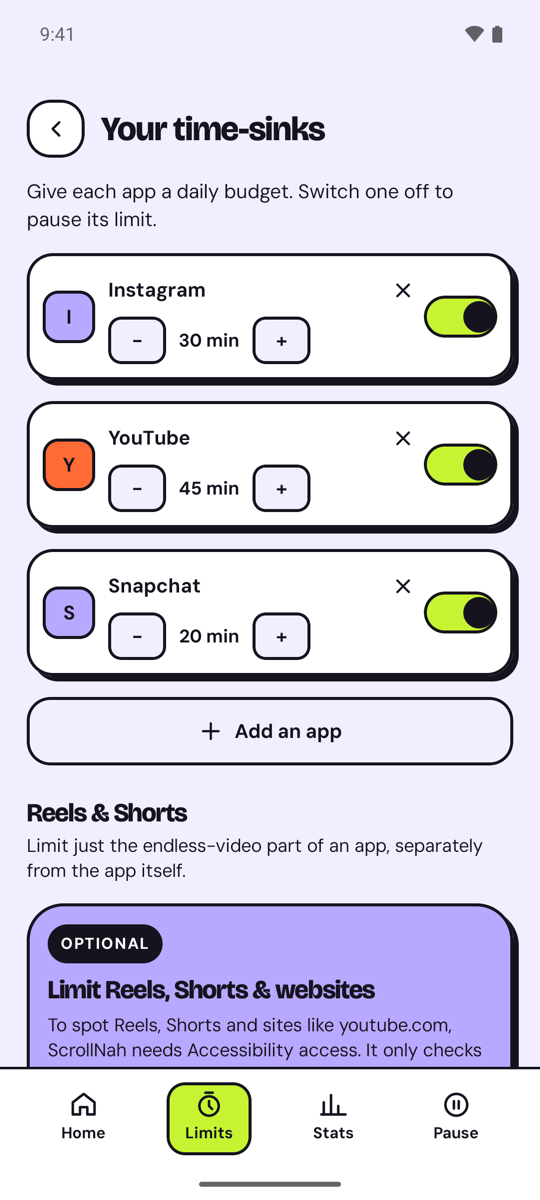
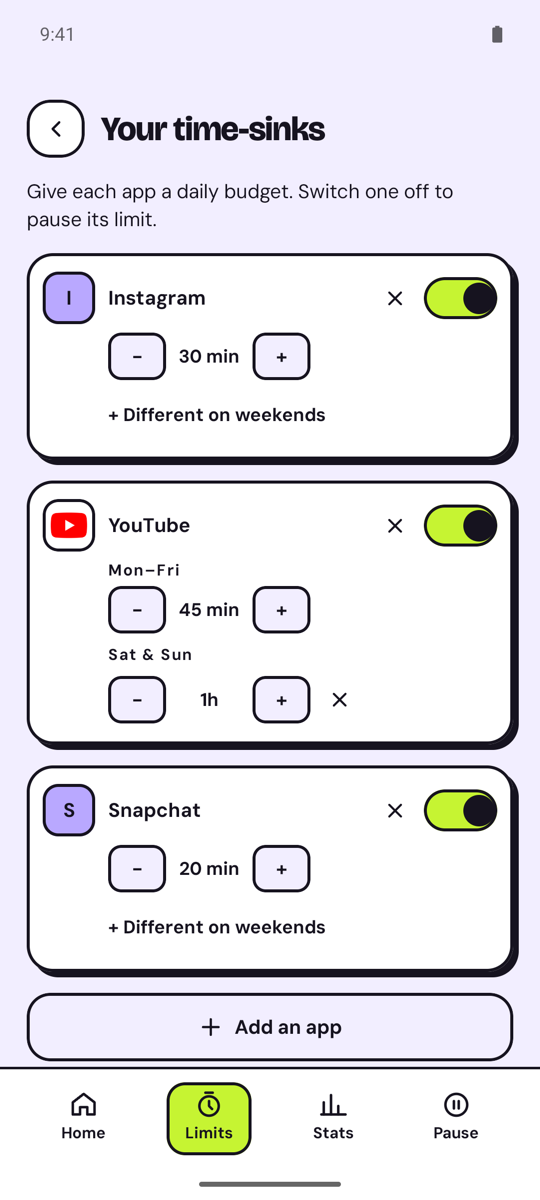
README: screenshots for 2.1.0
New screenshots for the setup mascot pick, Bloomy's new-flower pop-up and the
Quick Settings Focus tile; Limits screenshot retaken with app icons and a
weekend limit. Progress log: release asset naming and screenshot notes.

Changed region(s): [[0.0296, 0.2158, 0.9778, 0.8942], [0.8593, 0.0, 0.8889, 0.0308]]

diff --git a/CLAUDE_UPDATES.md b/CLAUDE_UPDATES.md
@@ -384,6 +384,10 @@ debug gallery (below).
 ## Version 2.1.0 (2026-10-27)
 - `versionCode` 6, `versionName` "2.1.0": everything in "Enhancements + compact app" below. GitHub release v2.1.0 (Latest).
 - Not yet tested on a real phone (emulator only). Play listing text (`store/listing.md`) not updated for the new features.
+- README: new screenshots `setup.png` (Pick your buddy), `bloom.png` (New flower!), `focus-tile.png` (Quick Settings,
+  focus on), and a new `limits.png` (app icons + YouTube weekend limit). Same method as "README screenshots" below;
+  the emulator's demo status bar wouldn't show the Wi-Fi icon this time (clock + battery only). The Focus tile showed
+  no ">" arrow once it was removed and added again (System UI caches the toggle flag).
 
 ## Enhancements + compact app (2026-10-27, developer's list + "make it compact")
 Committed as d5bf426 and released in 2.1.0. Built both flavors, 21 unit tests pass, tested on the emulator (`Unscroll_Pixel`).
@@ -442,9 +446,9 @@ Committed as d5bf426 and released in 2.1.0. Built both flavors, 21 unit tests pa
 ## Version 2.0.2 (2026-10-27)
 - `versionCode` 5, `versionName` "2.0.2": the landscape layouts below. GitHub release v2.0.2 (Latest), built
   with `./gradlew assembleGithubRelease` (the github flavor = what GitHub releases ship, tracker included).
-- Release steps now: bump version -> commit -> `./gradlew clean assembleGithubRelease` ->
-  `gh release create vX.Y.Z app/build/outputs/apk/github/release/app-github-release.apk#ScrollNah-X.Y.Z.apk
-  --target <FULL commit SHA> --latest` (a short SHA is rejected). Push without piping the output (piped pushes
+- Release steps now: bump version -> commit -> `./gradlew clean assembleGithubRelease` -> copy the APK to a
+  file named `ScrollNah-X.Y.Z.apk` (the `file#label` trick only sets the label, the download keeps the old file
+  name) -> `gh release create vX.Y.Z ScrollNah-X.Y.Z.apk --target <FULL commit SHA> --latest` (a short SHA is rejected). Push without piping the output (piped pushes
   failed twice for no clear reason).
 
 ## Rotation / landscape (2026-10-27, developer: "it always tilts, should follow the phone's tilt setting")

diff --git a/README.md b/README.md
@@ -21,14 +21,16 @@ A playful Android app that helps you scroll less, with a mascot that reacts to h
 | Home | Pause screen | Your week |
 |:---:|:---:|:---:|
 | <img src="screenshots/home-blobby.png" width="250" alt="Home with Blobby"> | <img src="screenshots/pause.png" width="250" alt="Pause screen"> | <img src="screenshots/stats.png" width="250" alt="Weekly report"> |
-| **Limits** | **Break reminders** | **A break reminder** |
-| <img src="screenshots/limits.png" width="250" alt="Limits"> | <img src="screenshots/break-reminders.png" width="250" alt="Break reminder settings"> | <img src="screenshots/break-reminder.png" width="250" alt="Break reminder notification and bubble over Chrome"> |
+| **Limits (weekday and weekend)** | **Break reminders** | **A break reminder** |
+| <img src="screenshots/limits.png" width="250" alt="Limits with real app icons and a different weekend limit for YouTube"> | <img src="screenshots/break-reminders.png" width="250" alt="Break reminder settings"> | <img src="screenshots/break-reminder.png" width="250" alt="Break reminder notification and bubble over Chrome"> |
 | **Bloomy on Home** | **Pick your mascot** | **Bloomy's garden** |
 | <img src="screenshots/home-bloomy.png" width="250" alt="Home with Bloomy"> | <img src="screenshots/mascot-picker.png" width="250" alt="Mascot picker"> | <img src="screenshots/garden.png" width="250" alt="Garden"> |
+| **Pick your buddy (setup)** | **Bloomy grew a flower** | **Focus from Quick Settings** |
+| <img src="screenshots/setup.png" width="250" alt="Setup: pick Blobby or Bloomy"> | <img src="screenshots/bloom.png" width="250" alt="New flower celebration"> | <img src="screenshots/focus-tile.png" width="250" alt="Focus tile in Quick Settings"> |
 | **Home-screen widgets** | | |
 | <img src="screenshots/widget.png" width="250" alt="Home-screen widgets"> | | |
 
-<sub>Screenshots use the app's sample data (debug demo mode).</sub>
+<sub>Screenshots use the app's sample data (debug demo mode). Apps that aren't installed on the test phone (Instagram, Snapchat) show a letter instead of their icon.</sub>
 
 ## Install
 
